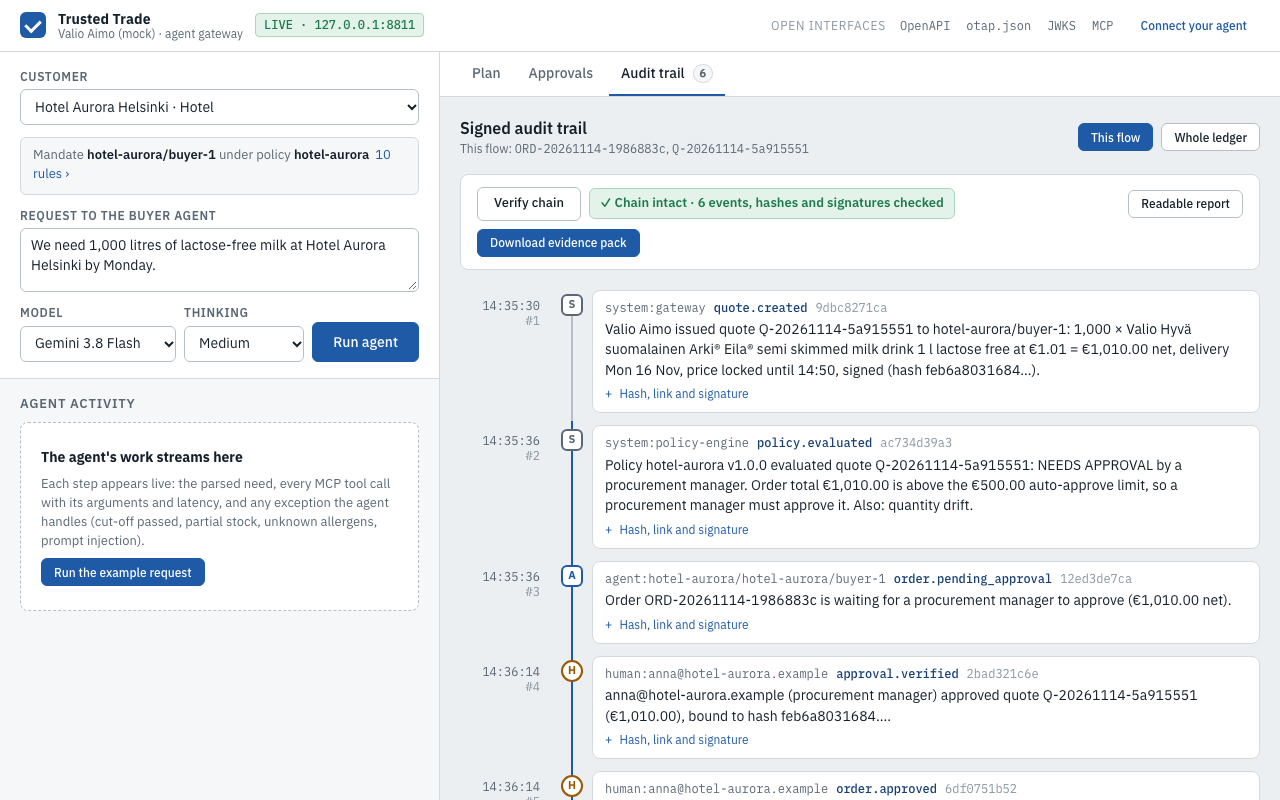
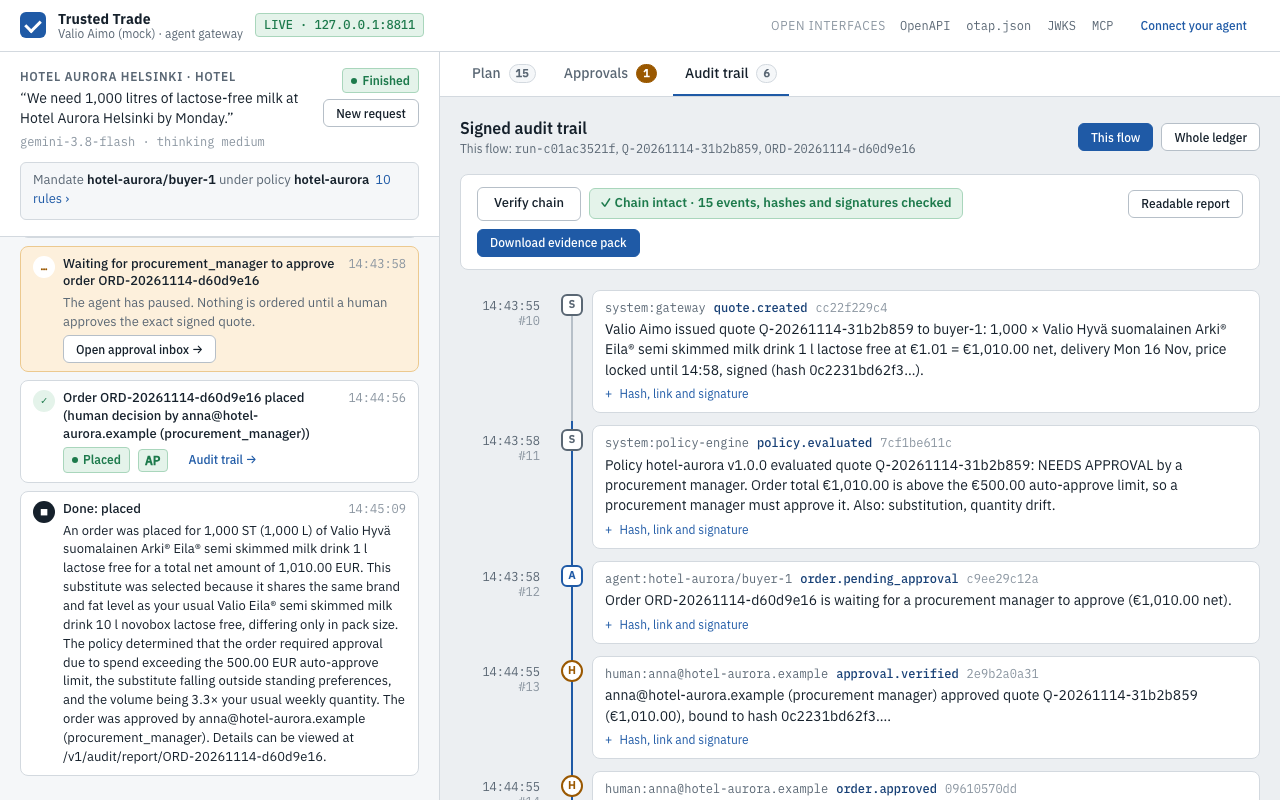
Frontend: live run verified end to end; buyer thinking enum, plan rerender on final

diff --git a/web/app.js b/web/app.js
@@ -15,7 +15,7 @@ const MODELS = [
   { id: "gemini-4-hydrogen", label: "Gemini 4 Hydrogen", hint: "reasoning" },
   { id: "gemini-3.1-flash-lite", label: "Gemini 3.1 Flash-Lite", hint: "fast" },
 ];
-const THINKING = ["low", "medium", "high"];
+const THINKING = ["minimal", "low", "medium", "high"];
 const DEFAULT_REQ = {
   "hotel-aurora": "We need 1,000 litres of lactose-free milk at Hotel Aurora Helsinki by Monday.",
   "school-tampere": "We need 150 litres of milk-free drink for school lunches in Tampere by Tuesday. Some pupils have milk and nut allergies.",
@@ -247,7 +247,7 @@ function onStep(step) {
   // `error` steps are non-fatal (a retry, a model fallback); only `final` ends the run.
 
   appendStep(step);
-  if (d.need || step.kind === "plan" || step.kind === "decision" || step.kind === "error") renderPlan();
+  if (d.need || ["plan", "decision", "error", "final"].includes(step.kind)) renderPlan();
   if (step.kind === "plan") setTab("plan");
   if (step.kind === "decision" || step.kind === "approval_wait" || step.kind === "order") {
     const oid = d.order_id || d.order?.order_id;
@@ -398,7 +398,7 @@ function needChips(need) {
   if (need.delivery_by) chips.push(chip("By", day(need.delivery_by)));
   (need.preferred_product_ids || []).forEach((p) => chips.push(chip("Usual", p)));
   const pr = need.preferences || {};
-  for (const [k, v] of Object.entries(pr)) if (v != null && typeof v !== "object" && k !== "usual_weekly_volume_l") chips.push(chip(k.replace(/_/g, " "), String(v)));
+  for (const [k, v] of Object.entries(pr)) if (v != null && typeof v !== "object" && !/^(usual_weekly_volume_l|parsed_by|standing_order|injection)/.test(k)) chips.push(chip(k.replace(/_/g, " "), String(v)));
   return h("div", { class: "chips" }, chips);
 }
 

diff --git a/web/api.js b/web/api.js
@@ -41,7 +41,7 @@ export function createLiveApi(base) {
     customers: () => req("GET", "/v1/customers"),
     startRun: ({ text, customer_id, model, thinking }) =>
       // `thinking` is an optional extra field (UNVERIFIED: not yet in interfaces.md); model is documented.
-      req("POST", "/v1/agent/runs", { text, customer_id, model, thinking }, { "X-Customer-Id": customer_id }),
+      req("POST", "/v1/agent/runs", { text, customer_id, model, thinking: thinking ? String(thinking).toUpperCase() : undefined }, { "X-Customer-Id": customer_id }),
 
     /** Subscribe to the SSE AgentStep stream. Returns a close() function. */
     streamRun(runId, onStep, onEnd) {

diff --git a/docs/reports/frontend.md b/docs/reports/frontend.md
@@ -1,45 +1,46 @@
 # Frontend report (team/frontend)
 
-Last updated: Sat 14 Nov 2026, 14:45 Helsinki. Owner: aimo-frontend. Paths: `web/` only.
+Last updated: Sat 14 Nov 2026, 14:50 Helsinki. Owner: aimo-frontend. Paths: `web/` only.
 
-## Status
-- **Mock mode is complete.** `?mock=1` plays the whole demo story with no backend: run, live timeline, plan, needs approval, approve, order response (AP), audit trail, chain verified green, and "Simulate tampering" turns it red.
-- **Live mode works against the real gateway, trust and catalog code** (tested on a local integration of origin/main + team/gateway + team/catalog + team/buyer). Verified live: customers and mandates, approval inbox with the signed quote, **Ed25519 signature verified in the browser against `/.well-known/jwks.json`**, approve, order placed (AP), audit trail for the flow, `GET /v1/audit/verify` green.
-- **Not yet live: the agent console.** `POST /v1/agent/runs` and its SSE stream don't exist yet (the gateway mounts `aimo.buyer.runs` when it lands, and team/buyer doesn't have it yet). The UI is built against the AgentStep shapes that `aimo/buyer/agent.py` emits today (see the contract below).
+## Status: M2 acceptance met (mock and live)
+- **Mock (`?mock=1`)** plays the whole demo with no backend: run, live timeline, plan, needs approval, approve, Peppol response AP, audit trail, Verify chain green. "Simulate tampering" turns the chain red and highlights the altered event.
+- **Live, end to end, verified at 14:45** on a local integration of origin/main + team/gateway + team/buyer (the buyer's `aimo/gemini.py` included): a real Gemini run streams over SSE (parsed need, MCP tool calls, plan with 15 candidates, signed quote) and returns **needs approval by Procurement Manager** (spend, substitution, 3.3× volume). Approve in the inbox: the agent resumes, the order is placed with **AP**, the final summary shows, and **Verify chain is green (15 events)**. Every step was run through the real UI by clicking (headless Chrome over CDP).
+- The quote signature is **verified in the browser** (WebCrypto Ed25519 against `/.well-known/jwks.json`). It works live with the trust key and in mock with a browser-generated key.
+
+Screenshots: [live plan](frontend/live-plan.png), [live run approved + order response](frontend/live-run-approved.png), [live audit verified](frontend/live-audit-verified.png), [live approval inbox](frontend/live-approval.png), [mock plan, full page](frontend/mock-plan.png).
 
 ## How to open
-- Mock, no backend: `cd web && python -m http.server 8765`, then open http://127.0.0.1:8765/index.html?mock=1
-- Live: `uv run aimo serve`, then open http://localhost:8000/ui/ (the gateway serves `web/` at `/ui`).
-- Separate preview server against a gateway: `...index.html?api=http://localhost:8000`
-- Demo and recording helpers: `&autorun=1` starts the run, `&autoapprove=1` approves when the agent waits, `&tab=plan|approvals|audit` opens a tab, `&customer=school-tampere` picks the customer.
+- Live: `uv run aimo serve`, then http://localhost:8000/ui/ (the gateway serves `web/` at `/ui`).
+- Mock, no backend: `cd web && python -m http.server 8765`, then http://127.0.0.1:8765/index.html?mock=1 (also works at `/ui/?mock=1`).
+- Gateway on another origin: `?api=http://localhost:8000`.
+- Demo and recording helpers: `&autorun=1` (start the run), `&autoapprove=1` (approve when the agent waits), `&tab=plan|approvals|audit`, `&customer=school-tampere`.
 
 ## What's on screen
-1. **Agent console (left):** customer selector with a mandate summary (from `/v1/customers`), request box, model and thinking selectors, and Run. A live timeline shows parsed-need chips, each tool call (name, args, latency, expandable JSON), and exceptions as callouts: cut-off passed, partial stock, allergen unknown or contains, prompt injection, volume drift, and harness retries. When a run starts, the request card collapses so the timeline gets the room.
-2. **Plan tab:** need chips, covered amount and total, the agent's explanation, the proposed order lines, then good-better-best cards (€/L, pack, unit price, available, quantity and line total in the plan or "if chosen", reliability, CO2, reasons, flags). Rejected candidates collapse with their reason.
-3. **Approvals tab:** the inbox (`GET /v1/approvals?status=pending`, polled every 5 s in live mode) and the verdict banner with every RuleHit in plain language. The signed quote shows lines, totals, a price-lock countdown, the hash and a signature badge (really verified in the browser). The approver comes from the policy's approver directory, preset to the required role. Approve/Reject sends `{decision, approver, approver_role, note, quote_hash}`. The Peppol order response (AP/CA/RE per line) then shows first.
-4. **Audit tab:** a hash-chain rail (each node is agent, human or system, and the link turns blue when `prev_hash` matches the previous event). Each event shows its summary, with hash, prev_hash, signature and kid behind a disclosure. Also on the tab: Verify chain, a readable markdown report (`/v1/audit/report/{order_id}`), and "Download evidence pack" (JSON: request, need, plan, quote, decision, order, agent steps, audit events, verification result and JWKS). You can switch the scope between "This flow" and "Whole ledger".
-5. **Openness strip (header):** links to OpenAPI `/docs`, `/.well-known/otap.json`, JWKS and `/mcp`. The "Connect your agent" dialog has MCP configs for HTTP and stdio and a curl example.
+1. **Agent console (left):** customer selector and mandate (from `/v1/customers`), request, model (gemini-3.8-flash / gemini-4-hydrogen / gemini-3.1-flash-lite), thinking (minimal to high), and Run. The live timeline shows need chips, each tool call (args, latency, JSON), and exception callouts: cut-off passed, partial stock, allergen, prompt injection, volume drift, and harness retries as warnings. The request card collapses during a run.
+2. **Plan tab:** need, covered amount and total, the explanation, the proposed lines, then good-better-best cards (€/L, pack, unit price, available, in-plan or if-chosen quantity and cost, reliability, CO2, reasons, flags). Rejected candidates collapse with their reasons.
+3. **Approvals tab:** the inbox (polled every 5 s), a verdict banner with every RuleHit, and the signed quote (lines, totals, price-lock countdown, hash, signature badge). The approver comes from the policy's directory. Approve/Reject then shows the order response first.
+4. **Audit tab:** the hash-chain rail (agent/human/system nodes, links verified by prev_hash), per-event hash, signature and kid, Verify chain, the readable report, the evidence pack JSON, and a choice of "This flow" or "Whole ledger".
+5. **Header:** links to OpenAPI, otap.json, JWKS and MCP. The "Connect your agent" dialog shows MCP HTTP and stdio configs and curl.
 
-Screenshots: [mock plan](frontend/mock-plan.png), [live approval with verified signature](frontend/live-approval.png), [live audit verified](frontend/live-audit-verified.png).
+## Contract the UI consumes
+- SSE: each message's `data` is one AgentStep (the event name is ignored), deduped by `seq`. **Only `final` ends a run.** `error` steps are non-fatal warnings. The run counts as failed when `final.data.status == "error"`.
+- Step data read (all optional): `thought` {text, need, drift, excerpt, reasons}; `tool_call` {name, args}; `tool_result` {name, latency_s|latency_ms, result, summary?, exceptions?}; `plan` {plan}; `quote` {quote}; `decision` {decision, order_id, status}; `approval_wait` {order_id, approver_role}; `order` {order}; `final` {status, summary}. Exceptions are derived from Offer lists (`cutoff_passed`, `issues`).
+- `POST /v1/agent/runs` {text, customer_id, model, thinking}. `thinking` is sent uppercase (MINIMAL|LOW|MEDIUM|HIGH), per `aimo/buyer/runs.py`.
+- Decision: `{decision, approver, approver_role, note, quote_hash}`. Errors are read from `{error, message, detail}`.
+- `available_amount ≥ 1e8` (the mock API's unlimited sentinel) shows as "in stock".
 
-## Contract the UI consumes (please keep it, or tell me)
-- SSE `GET /v1/agent/runs/{id}/events`: each message's `data` is one AgentStep JSON. Any event name works (default `message`, a kind name, or `step`). Duplicate `seq` values are ignored, so reconnect replays are safe. **Only `kind: "final"` ends the run.** `error` steps are shown as non-fatal warnings, which matches the buyer's retry and fallback emits. A run counts as failed only when `final.data.status == "error"`.
-- Step data the UI reads, all optional: `thought` {text, need, drift, excerpt, reasons}; `tool_call` {name, args, call_id?}; `tool_result` {name, latency_s or latency_ms, result, summary?, exceptions?: [{code, message, product_id}]}; `plan` {plan}; `quote` {quote}; `decision` {decision, order_id, status, order?}; `approval_wait` {order_id, approver_role}; `order` {order}; `final` {status, summary}. When `tool_result.result` is a list of Offers, the UI derives the exceptions itself from `cutoff_passed`/`issues`.
-- `POST /v1/agent/runs` body: `{text, customer_id, model, thinking}`. **`thinking` is UNVERIFIED** (it isn't in interfaces.md). The UI also sends the `X-Customer-Id` header.
-- Errors: reads `{error, message, detail}` (gateway ServiceError). 409 on decision is shown as "quote changed or expired, ask for a new quote".
-- An `available_amount` ≥ 1e8 (the mock API's unlimited sentinel, e.g. 9999999999) is shown as "in stock".
-
-## Found while integrating (for other owners)
-- **gateway:** audit actor doubles the customer, e.g. `agent:hotel-aurora/hotel-aurora/buyer-1` (`Identity.actor` prefixes the customer even when `agent_id` already contains it). Seen in the live audit trail.
-- **buyer:** `aimo.buyer.runs` (router with `POST /v1/agent/runs` + SSE) isn't on team/buyer yet. The gateway already tries to mount it.
-- **buyer/catalog:** a `tool_result` with a short `summary` and an `exceptions` list (cut-off passed, partial stock) would make the timeline read better than the generic `"get_offers: 4 result(s)"` title. This is optional, because the UI already derives exceptions from Offer lists.
+## Integration notes for the CEO and other owners
+- **Merge order matters:** team/buyer changes `aimo/gemini.py` (`generate(meta=...)`). With main's version, live runs fail with `generate() got an unexpected keyword argument 'meta'`. The UI shows this cleanly as a failed run.
+- **gateway:** the audit actor sometimes doubles the customer (`agent:hotel-aurora/hotel-aurora/buyer-1`, seen when the agent id is already qualified).
+- **gateway/trust:** `approved_by` comes back as `"anna@hotel-aurora.example (procurement_manager)"`, so the UI can't map it to the directory name. A bare id plus a separate role field would display better (cosmetic).
+- The UI only needs `web/` served at `/ui` (already in gateway `create_app`).
 
 ## Verified vs untested
-- Verified (headless Chrome via CDP, 1280×800): the mock hotel flow end to end, the mock school flow (auto-approve, allergen rejections, injection flagged), mock tamper detection, and live approval → placed → audit verify green with the real gateway, trust and catalog.
-- Untested: the live SSE agent run (endpoint missing), and hospital-meilahti in mock (not scripted; it shows an honest "no mock script" end state). The phone layout was not checked visually (CSS has breakpoints at 1100 and 900 px).
+- Verified: the mock hotel and school flows, mock tamper detection, the live full flow (above), the live REST-created order approved via UI, and the live JWS verification.
+- Untested: live school and hospital runs, a live reject path (the mock reject path works), and phone-width layout (CSS breakpoints exist, not checked visually).
 
 ## Mock data honesty
-Mock product ids and names are real catalog entries. The 464306 / 469363 / 462775 / 463038 hotel prices, stock and cut-off come from the demo script in PLAN.md. Values marked ILLUSTRATIVE in `web/mock.js` (the school oat drink prices and stock, 462775's price, 464306's 4,200 units) are invented for playback only. The header shows "MOCK DATA · no backend" whenever mock mode is on.
+Product ids and names are real catalog entries. Hotel prices, stock and cut-off come from PLAN.md and match the live plan (464306 €1.01, 469363 €2.48 with 384 units, 463038 cut-off Thu 12 Nov 15:00). Values marked ILLUSTRATIVE in `web/mock.js` (school prices and stock, 462775's price) are for playback only. Mock mode always shows "MOCK DATA · no backend".
 
 ## Needs a decision (Silas / CEO)
-- Should the "Simulate tampering" button exist in live mode? Trust has `tamper_for_demo`, but no HTTP endpoint exposes it. If the gateway adds `POST /v1/audit/_demo/tamper` (disabled in production), the live demo can show the chain turning red.
+- Live "Simulate tampering": trust has `tamper_for_demo`, but no HTTP route exposes it. If the gateway adds a demo-only route, the live demo can show the chain turning red. Mock already does.
